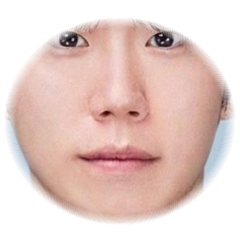
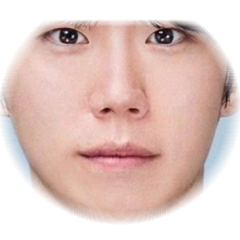
얼굴 비율을 헬멧 창 안에 다 보이게 조정

diff --git a/index.html b/index.html
@@ -215,7 +215,7 @@ footer{text-align:center;color:#5D689F;font-size:13px;padding:24px 16px 34px;bac
       <circle cx="160" cy="112" r="100" fill="url(#suit)" stroke="#1B2252" stroke-width="6"/>
       <circle cx="160" cy="118" r="80" fill="#C9D2F0"/>
       <circle cx="160" cy="118" r="70" fill="#0E1B4D"/>
-      <image href="face.png?v=2" x="86" y="44" width="148" height="148" clip-path="url(#visor)" preserveAspectRatio="xMidYMid slice"/>
+      <image href="face.png?v=3" x="97.6" y="56.6" width="124.8" height="124.8" clip-path="url(#visor)" preserveAspectRatio="xMidYMid slice"/>
       <circle cx="160" cy="118" r="70" fill="none" stroke="#1B2252" stroke-width="6"/>
       <path d="M108 86 A62 62 0 0 1 150 58" fill="none" stroke="#fff" stroke-width="9" stroke-linecap="round" opacity=".7"/>
       <circle cx="104" cy="104" r="5" fill="#fff" opacity=".7"/>
